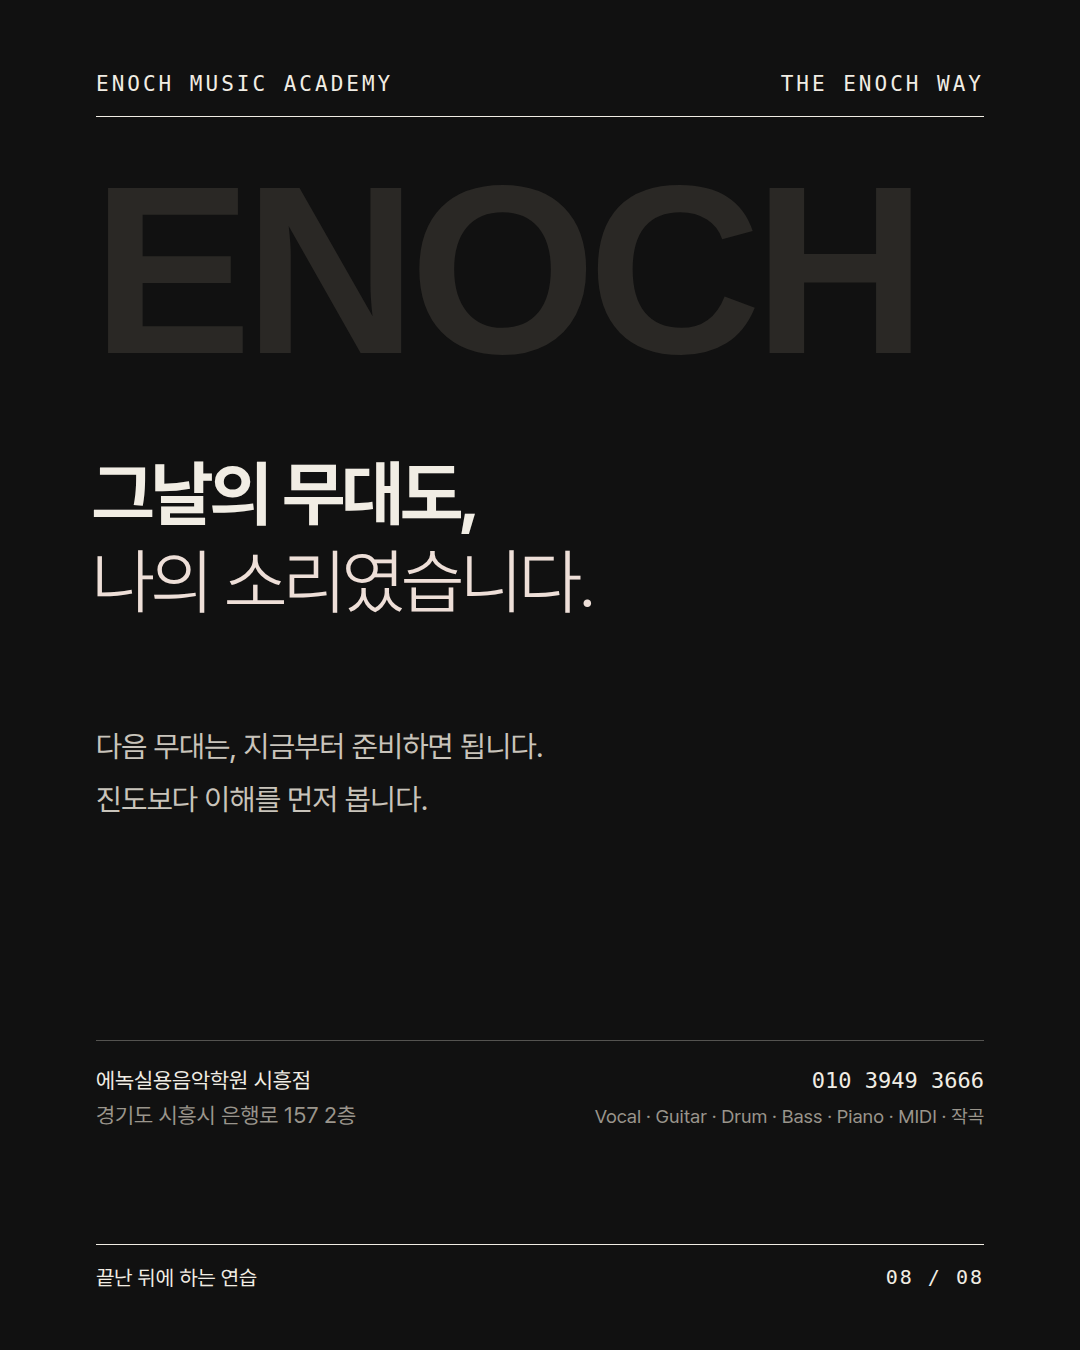
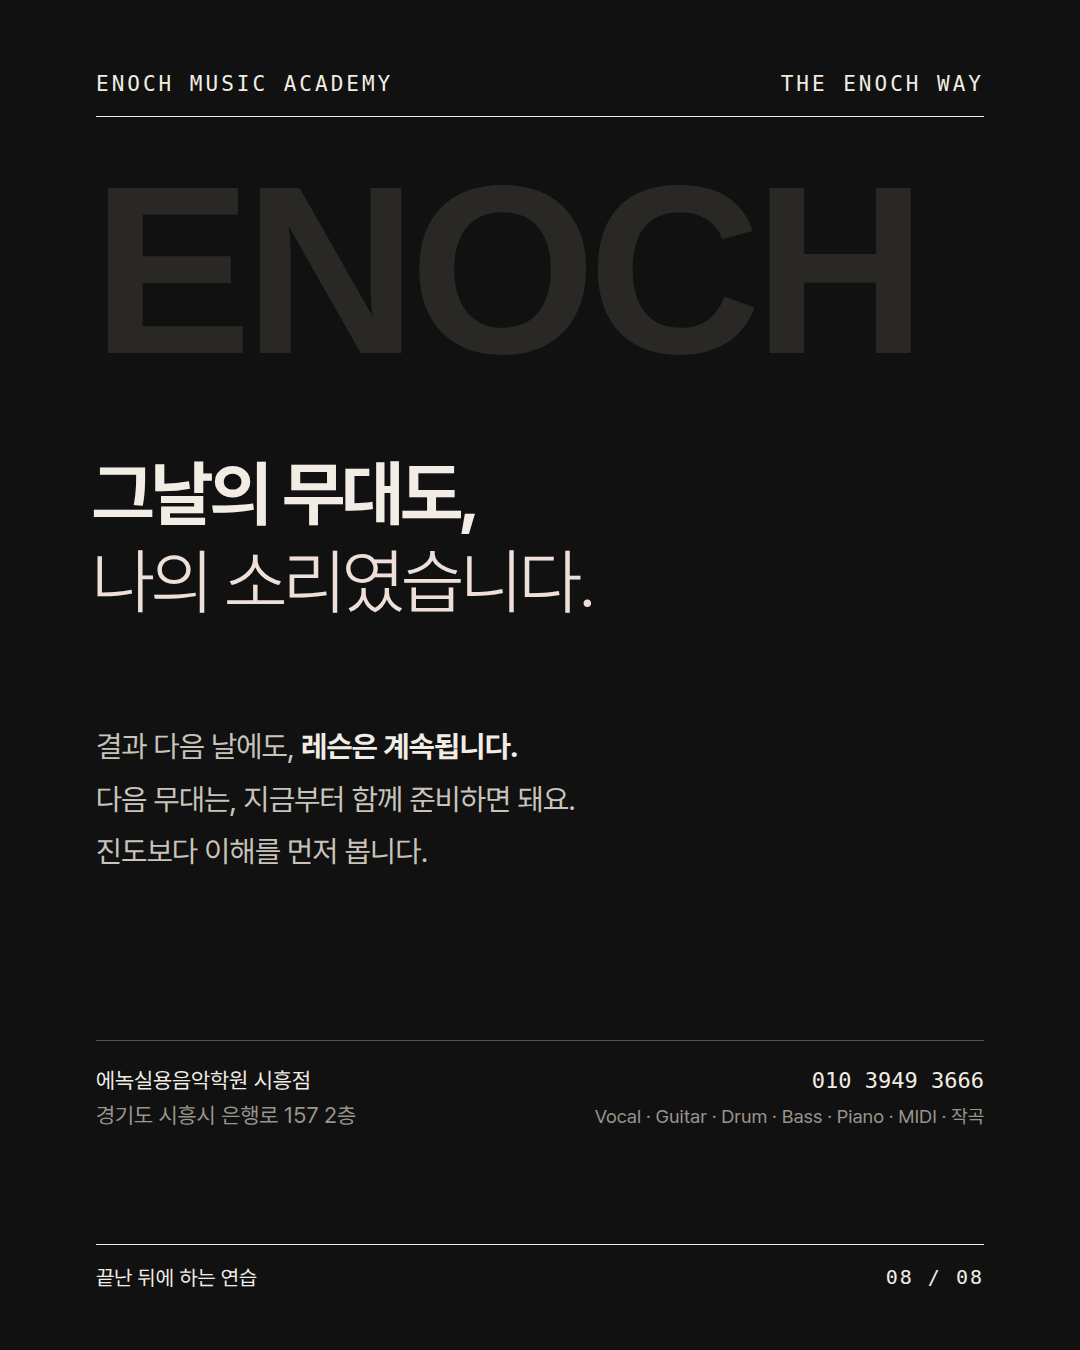
끝난 뒤에 하는 연습: 마무리에 '결과 다음 날에도, 레슨은 계속됩니다'
Claude-Session: https://claude.ai/code/session_01HGbZvgMeYrbU7mY8bwfjyb

Changed region(s): [[0.0917, 0.5289, 0.5194, 0.6533]]

diff --git a/output/노트_복기/deck.html b/output/노트_복기/deck.html
@@ -88,6 +88,6 @@
 <div class="ft"><span>끝난 뒤에 하는 연습</span><span>07 / 08</span></div></section><section class="s dark" id="c8"><div class="hd"><span>ENOCH MUSIC ACADEMY</span><span>THE ENOCH WAY</span></div>
 <div class="a" style="left:92px;top:150px;font-family:var(--en);font-weight:700;font-size:240px;letter-spacing:-8px;color:#2A2825;line-height:1">ENOCH</div>
 <div class="h a" style="left:92px;top:450px">그날의 무대도,<br><span style="font-weight:300;color:#EEDFD8">나의 소리였습니다.</span></div>
-<div class="p a" style="left:96px;right:96px;top:720px">다음 무대는, 지금부터 준비하면 됩니다.<br>진도보다 이해를 먼저 봅니다.</div>
+<div class="p a" style="left:96px;right:96px;top:720px">결과 다음 날에도, <b>레슨은 계속됩니다.</b><br>다음 무대는, 지금부터 함께 준비하면 돼요.<br>진도보다 이해를 먼저 봅니다.</div>
 <div class="a" style="left:96px;right:96px;top:1040px;padding-top:22px;border-top:1px solid rgba(241,237,228,.3);display:flex;justify-content:space-between;font-size:22px;line-height:1.6"><span>에녹실용음악학원 시흥점<br><span style="color:#9A958C">경기도 시흥시 은행로 157 2층</span></span><span style="text-align:right;font-family:var(--mono)">010 3949 3666<br><span style="color:#9A958C;font-family:P,sans-serif;font-size:19px">Vocal · Guitar · Drum · Bass · Piano · MIDI · 작곡</span></span></div>
 <div class="ft"><span>끝난 뒤에 하는 연습</span><span>08 / 08</span></div></section></body></html>

diff --git a/output/노트_복기/gen.py b/output/노트_복기/gen.py
@@ -114,7 +114,7 @@ S.append(f"""<section class="s" id="c7">{HD("WHAT COMES NEXT")}
 S.append(f"""<section class="s dark" id="c8">{HD("THE ENOCH WAY")}
 <div class="a" style="left:92px;top:150px;font-family:var(--en);font-weight:700;font-size:240px;letter-spacing:-8px;color:#2A2825;line-height:1">ENOCH</div>
 <div class="h a" style="left:92px;top:450px">그날의 무대도,<br><span style="font-weight:300;color:#EEDFD8">나의 소리였습니다.</span></div>
-<div class="p a" style="left:96px;right:96px;top:720px">다음 무대는, 지금부터 준비하면 됩니다.<br>진도보다 이해를 먼저 봅니다.</div>
+<div class="p a" style="left:96px;right:96px;top:720px">결과 다음 날에도, <b>레슨은 계속됩니다.</b><br>다음 무대는, 지금부터 함께 준비하면 돼요.<br>진도보다 이해를 먼저 봅니다.</div>
 {INFO}
 {FT(8)}</section>""")
 open('deck.html','w').write(f'<!doctype html><html lang="ko"><head><meta charset="utf-8"><title>끝난 뒤에 하는 연습</title><style>{FONT}{CSS}</style></head><body>'+''.join(S)+'</body></html>')

diff --git a/output/노트_복기/caption.md b/output/노트_복기/caption.md
@@ -6,7 +6,7 @@
 
 돌아보는 이유는, 앞으로 가기 위해서입니다. 다음 무대를 만드는 건 그날의 결과가 아니라, 오늘의 선택이거든요. 적어 둔 한 줄이 다음 연습의 첫 줄이 됩니다.
 
-진도보다 이해를 먼저 봅니다. 그날의 무대도, 나의 소리였습니다.
+결과 다음 날에도, ENOCH의 레슨은 계속됩니다. 진도보다 이해를 먼저 봅니다. 그날의 무대도, 나의 소리였습니다.
 
 에녹실용음악학원 시흥점 · 010 3949 3666
 
